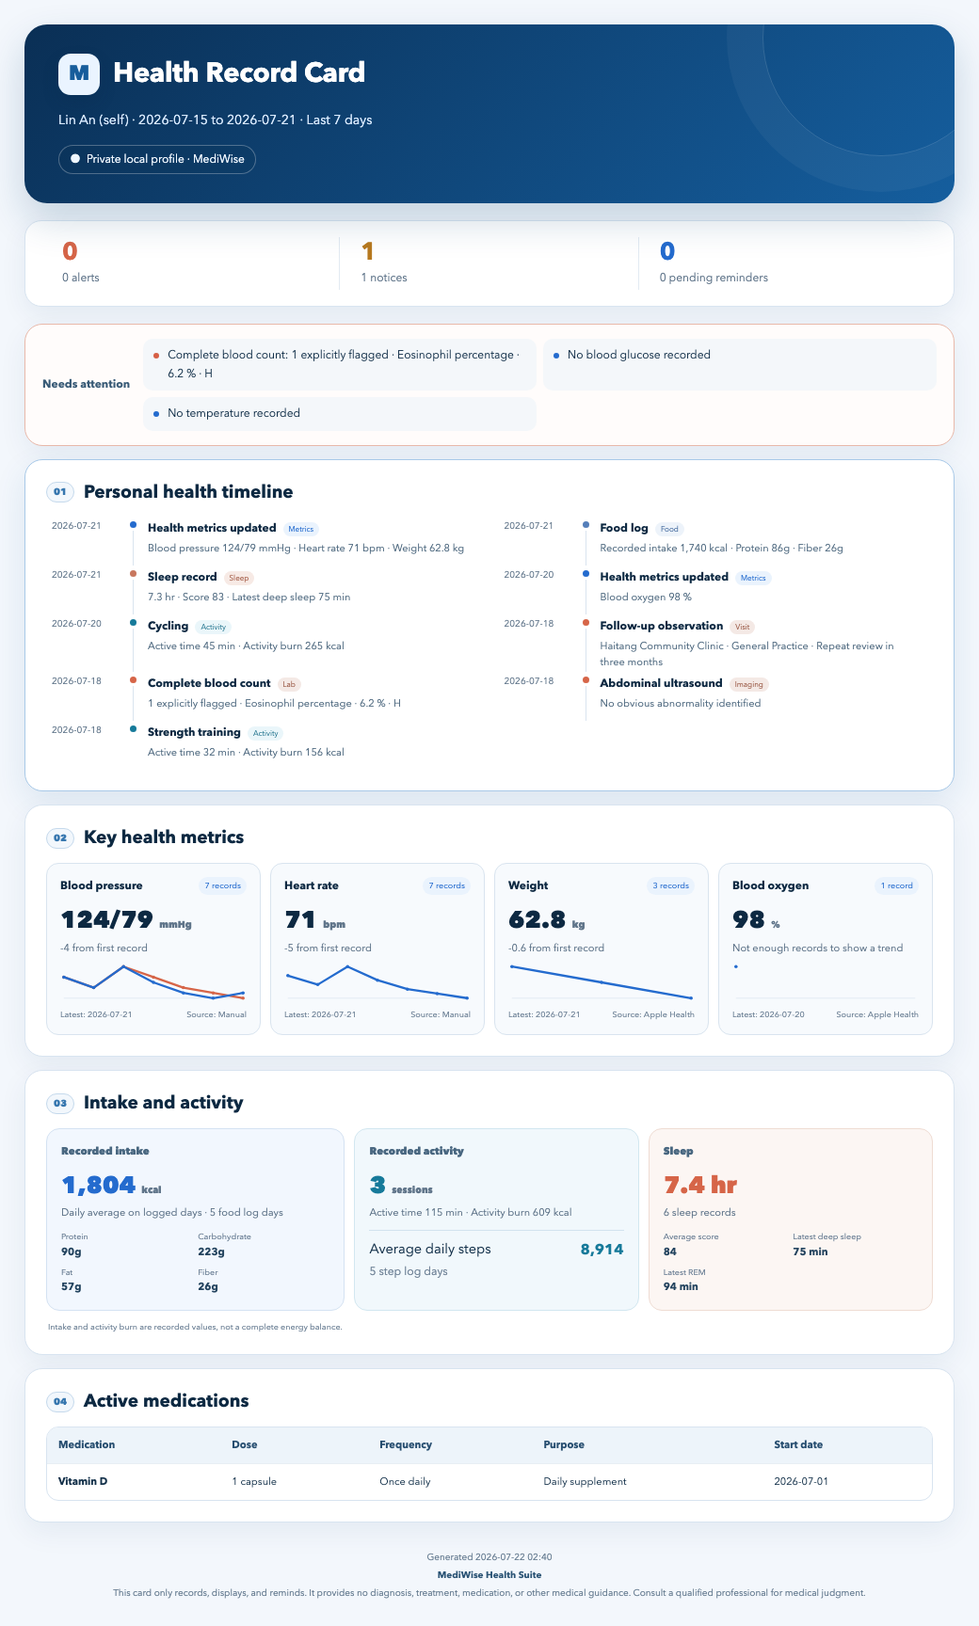
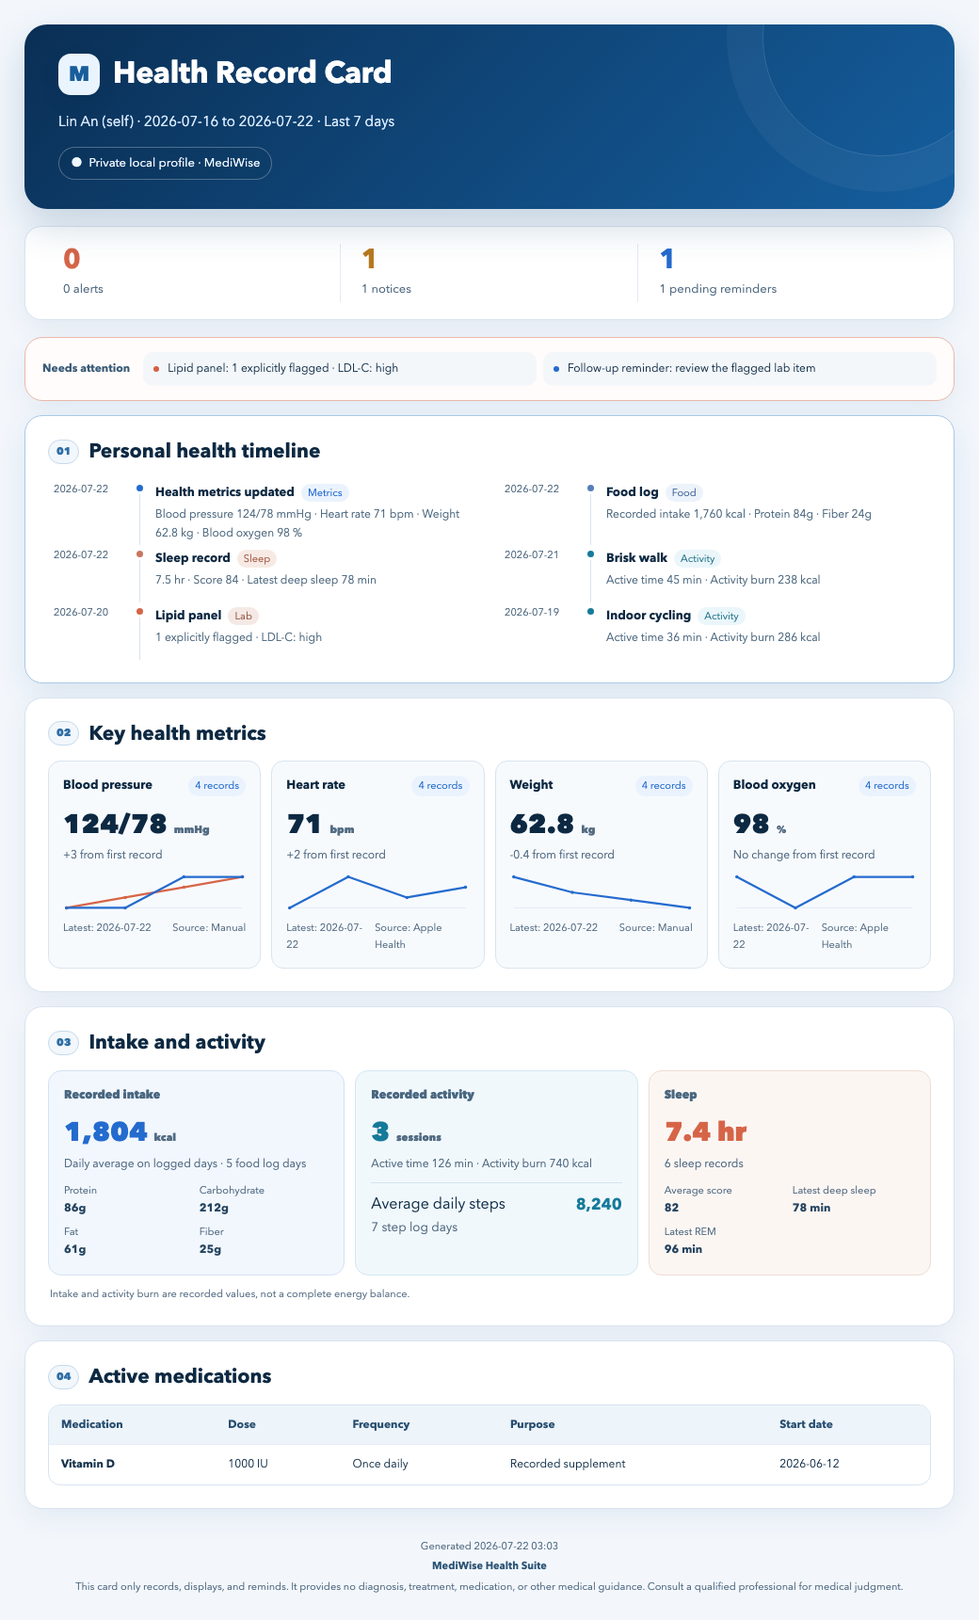
fix: enlarge health card typography

diff --git a/mediwise-health-tracker/scripts/briefing_report.py b/mediwise-health-tracker/scripts/briefing_report.py
@@ -1000,18 +1000,18 @@ def _render_html(title: str, subtitle: str, privacy: str, summary: str, content:
     return f'''<!DOCTYPE html><html lang="{c["lang"]}"><head><meta charset="UTF-8"><meta name="viewport" content="width=device-width,initial-scale=1"><title>{_escape(title)}</title>
 <style>
 :root{{--page:#F3F7FC;--surface:#FFFFFF;--surface-muted:#F7FAFD;--ink:#15324B;--ink-strong:#0D2942;--muted:#526B82;--line:#D8E4F0;--line-strong:#BBD2E8;--primary:#246BCE;--primary-strong:#164F91;--primary-soft:#EAF3FD;--cyan:#167A9A;--cyan-soft:#EAF6FA;--coral:#D66548;--coral-soft:#FCF0EC;--gold:#B7791F}}
-*{{box-sizing:border-box}} body{{margin:0;background:var(--page);color:var(--ink);font:14.5px/1.62 "Avenir Next","Segoe UI Variable","Segoe UI","PingFang SC","Microsoft YaHei",sans-serif;line-break:strict;overflow-wrap:break-word;font-synthesis:none}} .container{{max-width:1040px;margin:auto;padding:26px}}
+*{{box-sizing:border-box}} body{{margin:0;background:var(--page);color:var(--ink);font:16px/1.65 "Avenir Next","Segoe UI Variable","Segoe UI","PingFang SC","Microsoft YaHei",sans-serif;line-break:strict;overflow-wrap:break-word;font-synthesis:none}} .container{{max-width:1040px;margin:auto;padding:26px}}
 .header{{position:relative;overflow:hidden;border-radius:24px;padding:31px 36px;background:linear-gradient(135deg,#0A2F55,#155E9E);color:#fff;box-shadow:0 18px 42px rgba(16,68,116,.20)}} .header:after{{content:"";position:absolute;width:250px;height:250px;border:1px solid rgba(255,255,255,.15);border-radius:50%;right:-48px;top:-112px;box-shadow:0 0 0 38px rgba(255,255,255,.045)}}
-.brand{{display:flex;align-items:center;gap:14px}} .mark{{display:grid;place-items:center;width:44px;height:44px;border-radius:13px;background:#EAF4FF;color:#175D9B;font-weight:800;font-size:22px;box-shadow:0 8px 18px rgba(4,37,68,.16)}} h1{{font-size:29px;line-height:1.22;margin:0;letter-spacing:-.25px;text-wrap:balance}} .subtitle{{margin-top:16px;color:#D9EAFE;font-size:14px}} .privacy{{display:inline-block;margin-top:14px;padding:5px 11px;border:1px solid rgba(255,255,255,.28);border-radius:99px;color:#EFF7FF;font-size:12px;background:rgba(4,35,63,.10)}}
-.summary-strip{{display:grid;grid-template-columns:repeat(3,1fr);background:var(--surface);border:1px solid var(--line);border-radius:18px;margin:18px 0;padding:17px;box-shadow:0 9px 28px rgba(21,63,104,.07)}} .summary-strip>div{{padding:2px 22px;border-right:1px solid #E2EAF2}} .summary-strip>div:last-child{{border:0}} .summary-strip b{{font-size:26px;display:block;line-height:1.1;font-variant-numeric:tabular-nums}} .summary-strip span{{font-size:12px;color:var(--muted)}} .green{{color:var(--cyan)}} .blue{{color:var(--primary)}} .coral{{color:var(--coral)}} .gold{{color:var(--gold)}}
-section{{background:var(--surface);border:1px solid var(--line);border-radius:19px;padding:22px;margin:14px 0;box-shadow:0 10px 30px rgba(21,63,104,.065)}} .section-featured{{border-color:#A8C9E8;box-shadow:0 12px 34px rgba(31,91,147,.11)}} .section-title{{display:flex;align-items:center;gap:10px;margin-bottom:14px}} .section-title>span{{font-size:10px;font-weight:800;color:#2F6EA5;border:1px solid #C5D9EC;background:#F2F7FC;border-radius:99px;padding:2px 7px}} h2{{font-size:19px;line-height:1.3;margin:0;color:var(--ink-strong);text-wrap:balance}} h3{{margin:0;font-size:15px;color:var(--ink-strong)}} p{{text-wrap:pretty}} .muted{{color:var(--muted);font-size:11px}} .empty{{padding:20px;text-align:center;border:1px dashed #B9CDE0;border-radius:12px;background:#F8FAFD;color:var(--muted)}} .empty.compact{{padding:14px 9px;margin-top:8px}}
-.metric-grid{{display:grid;grid-template-columns:repeat(4,1fr);gap:10px}} .metric-grid.focused{{grid-template-columns:repeat(5,1fr)}} .metric-card{{padding:14px;border-radius:13px;background:var(--surface-muted);border:1px solid #D9E4EF;min-width:0}} .metric-card.featured{{grid-column:span 2;background:#F1F7FD;border-color:#B8D0E7}} .metric-card.featured .spark{{height:50px}} .metric-head,.meta{{display:flex;justify-content:space-between;gap:6px}} .metric-head b{{font-size:12px;color:var(--ink-strong)}} .metric-head span{{font-size:9px;background:var(--primary-soft);color:var(--primary);border-radius:99px;padding:2px 6px;white-space:nowrap}} .metric-value{{font-size:25px;font-weight:760;margin-top:7px;color:var(--ink-strong);font-variant-numeric:tabular-nums}} .metric-value small,.big small{{font-size:10px;color:var(--muted)}} .spark{{display:block;width:100%;height:42px;margin:6px 0}} .meta{{font-size:9px;color:#587087}} .metric-title{{margin-top:16px}}
-.wellness-grid{{display:grid;grid-template-columns:1.05fr 1fr 1fr;gap:10px}} .wellness-grid.focused{{grid-template-columns:repeat(4,minmax(0,1fr))}} .featured-panel{{grid-column:span 2}} .panel{{min-height:160px;border-radius:14px;padding:15px;border:1px solid #D9E4EF;background:#F8FAFD}} .intake{{background:#F2F7FE;border-color:#D4E2F2}} .activity{{background:#F1F8FC;border-color:#D2E7F0}} .sleep{{background:#FCF6F3;border-color:#EFDCD3}} .eyebrow{{font-size:11px;font-weight:760;color:#496780}} .big{{font-size:25px;font-weight:780;margin-top:7px;font-variant-numeric:tabular-nums}} .macro,.sleep-row{{display:grid;grid-template-columns:repeat(2,1fr);gap:5px;margin-top:9px}} .macro span,.sleep-row span{{font-size:9px;color:#526B82}} .macro b,.sleep-row b{{display:block;font-size:11px;color:#24445F}} .step-box{{margin-top:9px;padding-top:8px;border-top:1px solid #D2E3EE;display:grid;grid-template-columns:1fr auto}} .step-box b{{font-size:16px;color:var(--cyan)}} .step-box small{{grid-column:1/3;color:#587087}} .top-gap{{margin-top:10px}} .scope-note{{margin:10px 2px 0;font-size:9px;color:#587087}}
-.table-wrap{{overflow:hidden;border:1px solid var(--line);border-radius:13px}} table{{width:100%;border-collapse:collapse;font-variant-numeric:tabular-nums}} th{{background:#EDF4FA;color:#274E70;font-size:11px;text-align:left}} th,td{{padding:10px 12px;border-bottom:1px solid #E8EEF4}} tr:last-child td{{border:0}} td{{font-size:11px}}
+.brand{{display:flex;align-items:center;gap:14px}} .mark{{display:grid;place-items:center;width:44px;height:44px;border-radius:13px;background:#EAF4FF;color:#175D9B;font-weight:800;font-size:22px;box-shadow:0 8px 18px rgba(4,37,68,.16)}} h1{{font-size:32px;line-height:1.22;margin:0;letter-spacing:-.25px;text-wrap:balance}} .subtitle{{margin-top:16px;color:#D9EAFE;font-size:15px}} .privacy{{display:inline-block;margin-top:14px;padding:6px 12px;border:1px solid rgba(255,255,255,.28);border-radius:99px;color:#EFF7FF;font-size:13px;background:rgba(4,35,63,.10)}}
+.summary-strip{{display:grid;grid-template-columns:repeat(3,1fr);background:var(--surface);border:1px solid var(--line);border-radius:18px;margin:18px 0;padding:18px;box-shadow:0 9px 28px rgba(21,63,104,.07)}} .summary-strip>div{{padding:2px 22px;border-right:1px solid #E2EAF2}} .summary-strip>div:last-child{{border:0}} .summary-strip b{{font-size:29px;display:block;line-height:1.1;font-variant-numeric:tabular-nums}} .summary-strip span{{font-size:13px;color:var(--muted)}} .green{{color:var(--cyan)}} .blue{{color:var(--primary)}} .coral{{color:var(--coral)}} .gold{{color:var(--gold)}}
+section{{background:var(--surface);border:1px solid var(--line);border-radius:19px;padding:24px;margin:15px 0;box-shadow:0 10px 30px rgba(21,63,104,.065)}} .section-featured{{border-color:#A8C9E8;box-shadow:0 12px 34px rgba(31,91,147,.11)}} .section-title{{display:flex;align-items:center;gap:10px;margin-bottom:15px}} .section-title>span{{font-size:11px;font-weight:800;color:#2F6EA5;border:1px solid #C5D9EC;background:#F2F7FC;border-radius:99px;padding:3px 8px}} h2{{font-size:21px;line-height:1.3;margin:0;color:var(--ink-strong);text-wrap:balance}} h3{{margin:0;font-size:16px;color:var(--ink-strong)}} p{{text-wrap:pretty}} .muted{{color:var(--muted);font-size:12px}} .empty{{padding:20px;text-align:center;border:1px dashed #B9CDE0;border-radius:12px;background:#F8FAFD;color:var(--muted)}} .empty.compact{{padding:14px 9px;margin-top:8px}}
+.metric-grid{{display:grid;grid-template-columns:repeat(4,1fr);gap:11px}} .metric-grid.focused{{grid-template-columns:repeat(5,1fr)}} .metric-card{{padding:15px;border-radius:13px;background:var(--surface-muted);border:1px solid #D9E4EF;min-width:0}} .metric-card.featured{{grid-column:span 2;background:#F1F7FD;border-color:#B8D0E7}} .metric-card.featured .spark{{height:52px}} .metric-head,.meta{{display:flex;justify-content:space-between;gap:6px}} .metric-head b{{font-size:13px;color:var(--ink-strong)}} .metric-head span{{font-size:11px;background:var(--primary-soft);color:var(--primary);border-radius:99px;padding:2px 7px;white-space:nowrap}} .metric-value{{font-size:28px;font-weight:760;margin-top:7px;color:var(--ink-strong);font-variant-numeric:tabular-nums}} .metric-value small,.big small{{font-size:11px;color:var(--muted)}} .spark{{display:block;width:100%;height:44px;margin:7px 0}} .meta{{font-size:11px;color:#587087}} .metric-title{{margin-top:17px}}
+.wellness-grid{{display:grid;grid-template-columns:1.05fr 1fr 1fr;gap:11px}} .wellness-grid.focused{{grid-template-columns:repeat(4,minmax(0,1fr))}} .featured-panel{{grid-column:span 2}} .panel{{min-height:174px;border-radius:14px;padding:16px;border:1px solid #D9E4EF;background:#F8FAFD}} .intake{{background:#F2F7FE;border-color:#D4E2F2}} .activity{{background:#F1F8FC;border-color:#D2E7F0}} .sleep{{background:#FCF6F3;border-color:#EFDCD3}} .eyebrow{{font-size:12px;font-weight:760;color:#496780}} .big{{font-size:28px;font-weight:780;margin-top:7px;font-variant-numeric:tabular-nums}} .macro,.sleep-row{{display:grid;grid-template-columns:repeat(2,1fr);gap:6px;margin-top:10px}} .macro span,.sleep-row span{{font-size:11px;color:#526B82}} .macro b,.sleep-row b{{display:block;font-size:12px;color:#24445F}} .step-box{{margin-top:10px;padding-top:9px;border-top:1px solid #D2E3EE;display:grid;grid-template-columns:1fr auto}} .step-box b{{font-size:17px;color:var(--cyan)}} .step-box small{{grid-column:1/3;color:#587087}} .top-gap{{margin-top:11px}} .scope-note{{margin:11px 2px 0;font-size:11px;color:#587087}}
+.table-wrap{{overflow:hidden;border:1px solid var(--line);border-radius:13px}} table{{width:100%;border-collapse:collapse;font-variant-numeric:tabular-nums}} th{{background:#EDF4FA;color:#274E70;font-size:12px;text-align:left}} th,td{{padding:11px 13px;border-bottom:1px solid #E8EEF4}} tr:last-child td{{border:0}} td{{font-size:12px}}
 .clear{{display:flex;align-items:center;gap:9px;padding:11px 14px;border-radius:12px;background:#EAF3FB;color:#195F93}} .clear i{{display:grid;place-items:center;width:23px;height:23px;border-radius:50%;background:#2C78B8;color:white;font-style:normal}} .hero-clear{{margin:14px 0;background:white;border:1px solid #D3E1EE;box-shadow:0 9px 28px rgba(21,63,104,.06)}} .attention-section{{padding:15px 18px}} .attention-section.has-risk{{border-color:#E9B9AA;background:#FFFCFB}} .attention-section .compact-attention{{padding:0;border:0}} .attention-list{{display:grid;grid-template-columns:repeat(2,minmax(0,1fr));gap:7px;flex:1}} .attention-item{{display:flex;gap:9px;padding:8px 11px;border-radius:10px;background:#F4F7FA}} .attention-item span{{width:6px;height:6px;border-radius:50%;background:var(--primary);margin-top:7px;flex:none}} .attention-item.alert span{{background:#D65F45}} .attention-item.warning span{{background:#D49A30}} .attention-item p{{margin:0;font-size:12px}} .compact-attention{{display:flex;align-items:center;gap:14px;padding-bottom:13px;border-bottom:1px solid #E4EBF2}} .compact-attention>b{{font-size:12px;white-space:nowrap;color:#385A76}} .compact-attention>.clear{{flex:1;padding:8px 11px}} .compact-attention>.clear i{{width:20px;height:20px}}
-.family-grid{{display:grid;grid-template-columns:repeat(2,1fr);gap:14px}} .family-card{{padding:18px;border:1px solid #D6E2ED;border-radius:16px;background:#FBFCFE}} .family-card.featured-member{{border-color:#E7A48E;background:#FFF9F7;box-shadow:0 10px 24px rgba(174,78,49,.10)}} .family-card-head{{display:flex;justify-content:space-between;gap:10px;margin-bottom:12px}} .family-card-head p{{margin:3px 0;color:var(--muted);font-size:10px}} .family-grid>.family-card:nth-child(odd):last-child{{grid-column:1/-1;display:grid;grid-template-columns:repeat(3,minmax(0,1fr));column-gap:14px}} .family-grid>.family-card:nth-child(odd):last-child .family-card-head{{grid-column:1/-1}} .status{{height:max-content;padding:4px 8px;border-radius:99px;background:#EAF3FB;color:#195F93;font-size:9px;white-space:nowrap}} .status.watch{{background:#FCEBE5;color:#A64C36}} .family-block{{padding:11px 0;border-top:1px solid #E3EBF2}} .family-block-title{{font-size:10px;font-weight:760;color:#46657E;margin-bottom:7px}} .family-metrics{{display:grid;grid-template-columns:repeat(3,1fr);gap:7px}} .family-metrics span{{padding:8px;background:#EFF5FA;border-radius:9px;min-width:0}} .family-metrics small,.family-metrics b{{display:block}} .family-metrics small{{font-size:9px;color:var(--muted)}} .family-metrics b{{font-size:13px;margin-top:2px;white-space:nowrap;color:var(--ink-strong)}} .family-metrics i{{font-size:8px;font-style:normal;color:#587087}} .family-state-note,.family-empty{{padding:8px 10px;border-radius:9px;background:#F1F5F9;color:var(--muted);font-size:10px}} .family-empty.clear-state{{background:#EAF3FB;color:#195F93}} .family-list{{display:grid;gap:6px}} .family-list-item{{display:flex;align-items:center;gap:8px;padding:8px 9px;border-radius:9px;background:#F1F5F9;min-width:0}} .family-list-item.medication{{justify-content:space-between;background:#EDF4FC}} .family-list-item.medication div{{min-width:0}} .family-list-item.medication b,.family-list-item.medication small{{display:block}} .family-list-item.medication b{{font-size:11px;color:#234D70}} .family-list-item.medication small{{font-size:9px;color:#526B82;margin-top:1px}} .family-list-item.medication em{{font-size:8px;font-style:normal;color:var(--primary);background:#fff;padding:3px 6px;border-radius:99px;white-space:nowrap}} .family-list-item.attention{{align-items:flex-start}} .family-list-item.attention i{{width:6px;height:6px;border-radius:50%;background:var(--primary);margin-top:6px;flex:none}} .family-list-item.attention.warning i{{background:#D49A30}} .family-list-item.attention.alert i{{background:#D65F45}} .family-list-item.attention p{{margin:0;font-size:10px;color:#405E77}} .family-more{{font-size:9px;color:var(--muted);padding-left:3px}}
-.timeline{{padding-left:6px}} .timeline-item{{display:grid;grid-template-columns:78px 12px 1fr;gap:9px;min-height:55px}} .timeline-item time{{font-size:10px;color:var(--muted);padding-top:2px;font-variant-numeric:tabular-nums}} .timeline-item>span{{position:relative}} .timeline-item>span:before{{content:"";position:absolute;width:7px;height:7px;border-radius:50%;background:var(--coral);top:5px;left:2px}} .timeline-item>span:after{{content:"";position:absolute;width:1px;background:#D9E4EF;top:15px;bottom:0;left:5px}} .timeline-item:last-child>span:after{{display:none}} .timeline-item b{{font-size:12px;color:var(--ink-strong)}} .timeline-item small{{margin-left:7px;padding:2px 6px;border-radius:99px;background:#F4E9E5;color:#9B5A47;font-size:8px}} .timeline-item p{{font-size:11px;color:#536D83;margin:1px 0}} .personal-timeline{{display:grid;grid-template-columns:repeat(2,minmax(0,1fr));column-gap:25px}} .personal-timeline .timeline-item{{grid-template-columns:72px 12px 1fr;min-height:52px}} .personal-timeline .metric-event>span:before{{background:var(--primary)}} .personal-timeline .metric-event small{{background:var(--primary-soft);color:var(--primary)}} .personal-timeline .food-event>span:before{{background:#557FBA}} .personal-timeline .food-event small{{background:#EDF3FA;color:#446A9E}} .personal-timeline .activity-event>span:before{{background:var(--cyan)}} .personal-timeline .activity-event small{{background:var(--cyan-soft);color:#126985}} .personal-timeline .sleep-event>span:before{{background:#C8775E}} .personal-timeline .sleep-event small{{background:#F7EAE5;color:#A45C47}}
-.footer{{text-align:center;color:#526B82;font-size:10px;padding:15px 10px 6px}} .footer b{{display:block;color:#2B5475;margin:3px}} @media(max-width:700px){{.container{{padding:12px}}.header{{padding:25px}}.metric-grid,.metric-grid.focused{{grid-template-columns:repeat(2,1fr)}}.wellness-grid,.wellness-grid.focused,.family-grid,.personal-timeline{{grid-template-columns:1fr}}.family-grid>.family-card:nth-child(odd):last-child{{grid-column:auto;display:block}}.featured-panel{{grid-column:auto}}.attention-list{{grid-template-columns:1fr}}.compact-attention{{align-items:flex-start;flex-direction:column}}.summary-strip>div{{padding:2px 8px}}.family-metrics{{grid-template-columns:repeat(2,1fr)}}}} @media print{{body{{background:white}}.container{{max-width:none}}section,.header{{box-shadow:none;break-inside:avoid}}}}
+.family-grid{{display:grid;grid-template-columns:repeat(2,1fr);gap:15px}} .family-card{{padding:20px;border:1px solid #D6E2ED;border-radius:16px;background:#FBFCFE}} .family-card.featured-member{{border-color:#E7A48E;background:#FFF9F7;box-shadow:0 10px 24px rgba(174,78,49,.10)}} .family-card-head{{display:flex;justify-content:space-between;gap:10px;margin-bottom:13px}} .family-card-head p{{margin:3px 0;color:var(--muted);font-size:11px}} .family-grid>.family-card:nth-child(odd):last-child{{grid-column:1/-1;display:grid;grid-template-columns:1.3fr .85fr .85fr;column-gap:15px}} .family-grid>.family-card:nth-child(odd):last-child .family-card-head{{grid-column:1/-1}} .status{{height:max-content;padding:5px 9px;border-radius:99px;background:#EAF3FB;color:#195F93;font-size:11px;white-space:nowrap}} .status.watch{{background:#FCEBE5;color:#A64C36}} .family-block{{padding:12px 0;border-top:1px solid #E3EBF2}} .family-block-title{{font-size:11px;font-weight:760;color:#46657E;margin-bottom:8px}} .family-metrics{{display:grid;grid-template-columns:repeat(3,1fr);gap:8px}} .family-metrics span{{padding:9px;background:#EFF5FA;border-radius:9px;min-width:0}} .family-metrics small,.family-metrics b{{display:block}} .family-metrics small{{font-size:11px;color:var(--muted)}} .family-metrics b{{font-size:15px;margin-top:2px;white-space:nowrap;color:var(--ink-strong)}} .family-metrics i{{font-size:11px;font-style:normal;color:#587087}} .family-state-note,.family-empty{{padding:9px 11px;border-radius:9px;background:#F1F5F9;color:var(--muted);font-size:11px}} .family-empty.clear-state{{background:#EAF3FB;color:#195F93}} .family-list{{display:grid;gap:7px}} .family-list-item{{display:flex;align-items:center;gap:8px;padding:9px 10px;border-radius:9px;background:#F1F5F9;min-width:0}} .family-list-item.medication{{justify-content:space-between;background:#EDF4FC}} .family-list-item.medication div{{min-width:0}} .family-list-item.medication b,.family-list-item.medication small{{display:block}} .family-list-item.medication b{{font-size:13px;color:#234D70}} .family-list-item.medication small{{font-size:11px;color:#526B82;margin-top:1px}} .family-list-item.medication em{{font-size:11px;font-style:normal;color:var(--primary);background:#fff;padding:3px 7px;border-radius:99px;white-space:nowrap}} .family-list-item.attention{{align-items:flex-start}} .family-list-item.attention i{{width:6px;height:6px;border-radius:50%;background:var(--primary);margin-top:7px;flex:none}} .family-list-item.attention.warning i{{background:#D49A30}} .family-list-item.attention.alert i{{background:#D65F45}} .family-list-item.attention p{{margin:0;font-size:11px;color:#405E77}} .family-more{{font-size:11px;color:var(--muted);padding-left:3px}}
+.timeline{{padding-left:6px}} .timeline-item{{display:grid;grid-template-columns:82px 12px 1fr;gap:10px;min-height:64px}} .timeline-item time{{font-size:11px;color:var(--muted);padding-top:2px;font-variant-numeric:tabular-nums}} .timeline-item>span{{position:relative}} .timeline-item>span:before{{content:"";position:absolute;width:7px;height:7px;border-radius:50%;background:var(--coral);top:6px;left:2px}} .timeline-item>span:after{{content:"";position:absolute;width:1px;background:#D9E4EF;top:16px;bottom:0;left:5px}} .timeline-item:last-child>span:after{{display:none}} .timeline-item b{{font-size:13px;color:var(--ink-strong)}} .timeline-item small{{margin-left:7px;padding:2px 7px;border-radius:99px;background:#F4E9E5;color:#9B5A47;font-size:11px}} .timeline-item p{{font-size:12px;color:#536D83;margin:2px 0}} .personal-timeline{{display:grid;grid-template-columns:repeat(2,minmax(0,1fr));column-gap:26px}} .personal-timeline .timeline-item{{grid-template-columns:76px 12px 1fr;min-height:61px}} .personal-timeline .metric-event>span:before{{background:var(--primary)}} .personal-timeline .metric-event small{{background:var(--primary-soft);color:var(--primary)}} .personal-timeline .food-event>span:before{{background:#557FBA}} .personal-timeline .food-event small{{background:#EDF3FA;color:#446A9E}} .personal-timeline .activity-event>span:before{{background:var(--cyan)}} .personal-timeline .activity-event small{{background:var(--cyan-soft);color:#126985}} .personal-timeline .sleep-event>span:before{{background:#C8775E}} .personal-timeline .sleep-event small{{background:#F7EAE5;color:#A45C47}}
+.footer{{text-align:center;color:#526B82;font-size:11px;padding:16px 10px 7px}} .footer b{{display:block;color:#2B5475;margin:3px}} @media(max-width:700px){{.container{{padding:12px}}.header{{padding:25px}}.metric-grid,.metric-grid.focused{{grid-template-columns:repeat(2,1fr)}}.wellness-grid,.wellness-grid.focused,.family-grid,.personal-timeline{{grid-template-columns:1fr}}.family-grid>.family-card:nth-child(odd):last-child{{grid-column:auto;display:block}}.featured-panel{{grid-column:auto}}.attention-list{{grid-template-columns:1fr}}.compact-attention{{align-items:flex-start;flex-direction:column}}.summary-strip>div{{padding:2px 8px}}.family-metrics{{grid-template-columns:repeat(2,1fr)}}}} @media print{{body{{background:white}}.container{{max-width:none}}section,.header{{box-shadow:none;break-inside:avoid}}}}
 </style></head><body><main class="container"><header class="header"><div class="brand"><div class="mark">M</div><h1>{_escape(title)}</h1></div><div class="subtitle">{_escape(subtitle)}</div><div class="privacy">●&nbsp; {_escape(privacy)} · MediWise</div></header>{summary}{content}<footer class="footer"><span>{_escape(generated)}</span><b>MediWise Health Suite</b><span>{_escape(c["disclaimer"])}</span></footer></main></body></html>'''
 
 

diff --git a/mediwise-health-tracker/scripts/test_briefing_report.py b/mediwise-health-tracker/scripts/test_briefing_report.py
@@ -115,6 +115,19 @@ class HealthCardThemeTest(unittest.TestCase):
         self.assertIn(".family-grid>.family-card:nth-child(odd):last-child", html)
         self.assertNotIn("linear-gradient(135deg,#123C35,#1A6B5E)", html)
 
+    def test_health_card_uses_readable_typography(self):
+        html = briefing_report._render_html(
+            "健康记录卡片", "最近 7 天", "个人本地档案", "", "", "zh-CN"
+        )
+
+        self.assertIn('font:16px/1.65', html)
+        self.assertIn('h1{font-size:32px', html)
+        self.assertIn('.metric-value{font-size:28px', html)
+        self.assertIn('.family-list-item.medication b{font-size:13px', html)
+        self.assertNotIn('font-size:8px', html)
+        self.assertNotIn('font-size:9px', html)
+        self.assertNotIn('font-size:10px', html)
+
     def test_metric_sparklines_use_blue_as_the_default(self):
         html = briefing_report._sparkline(
             "heart_rate",

diff --git a/CHANGELOG.md b/CHANGELOG.md
@@ -8,6 +8,7 @@ and this project adheres to [Semantic Versioning](https://semver.org/spec/v2.0.0
 ## [Unreleased]
 
 ### Changed
+- Health Record Card typography is now larger throughout personal and family views, with more readable labels, medication schedules, timeline details, and disclaimers at both desktop and narrow widths.
 - Health Record Cards now use a clearer medical-blue visual system with improved contrast, blue metric charts, and a compact full-width layout for the final member in odd-sized family cards.
 - Clarified that MediWise works with Hermes, OpenClaw, Claude Code, Codex, WorkBuddy, and other Skills-compatible agents; OpenClaw-specific workspace and channel instructions remain documented as an adapter path rather than a product requirement.
 - Family health record cards now organize each member by current status, active medications and schedules, reminders, and explicit attention items. The family timeline has been removed.
